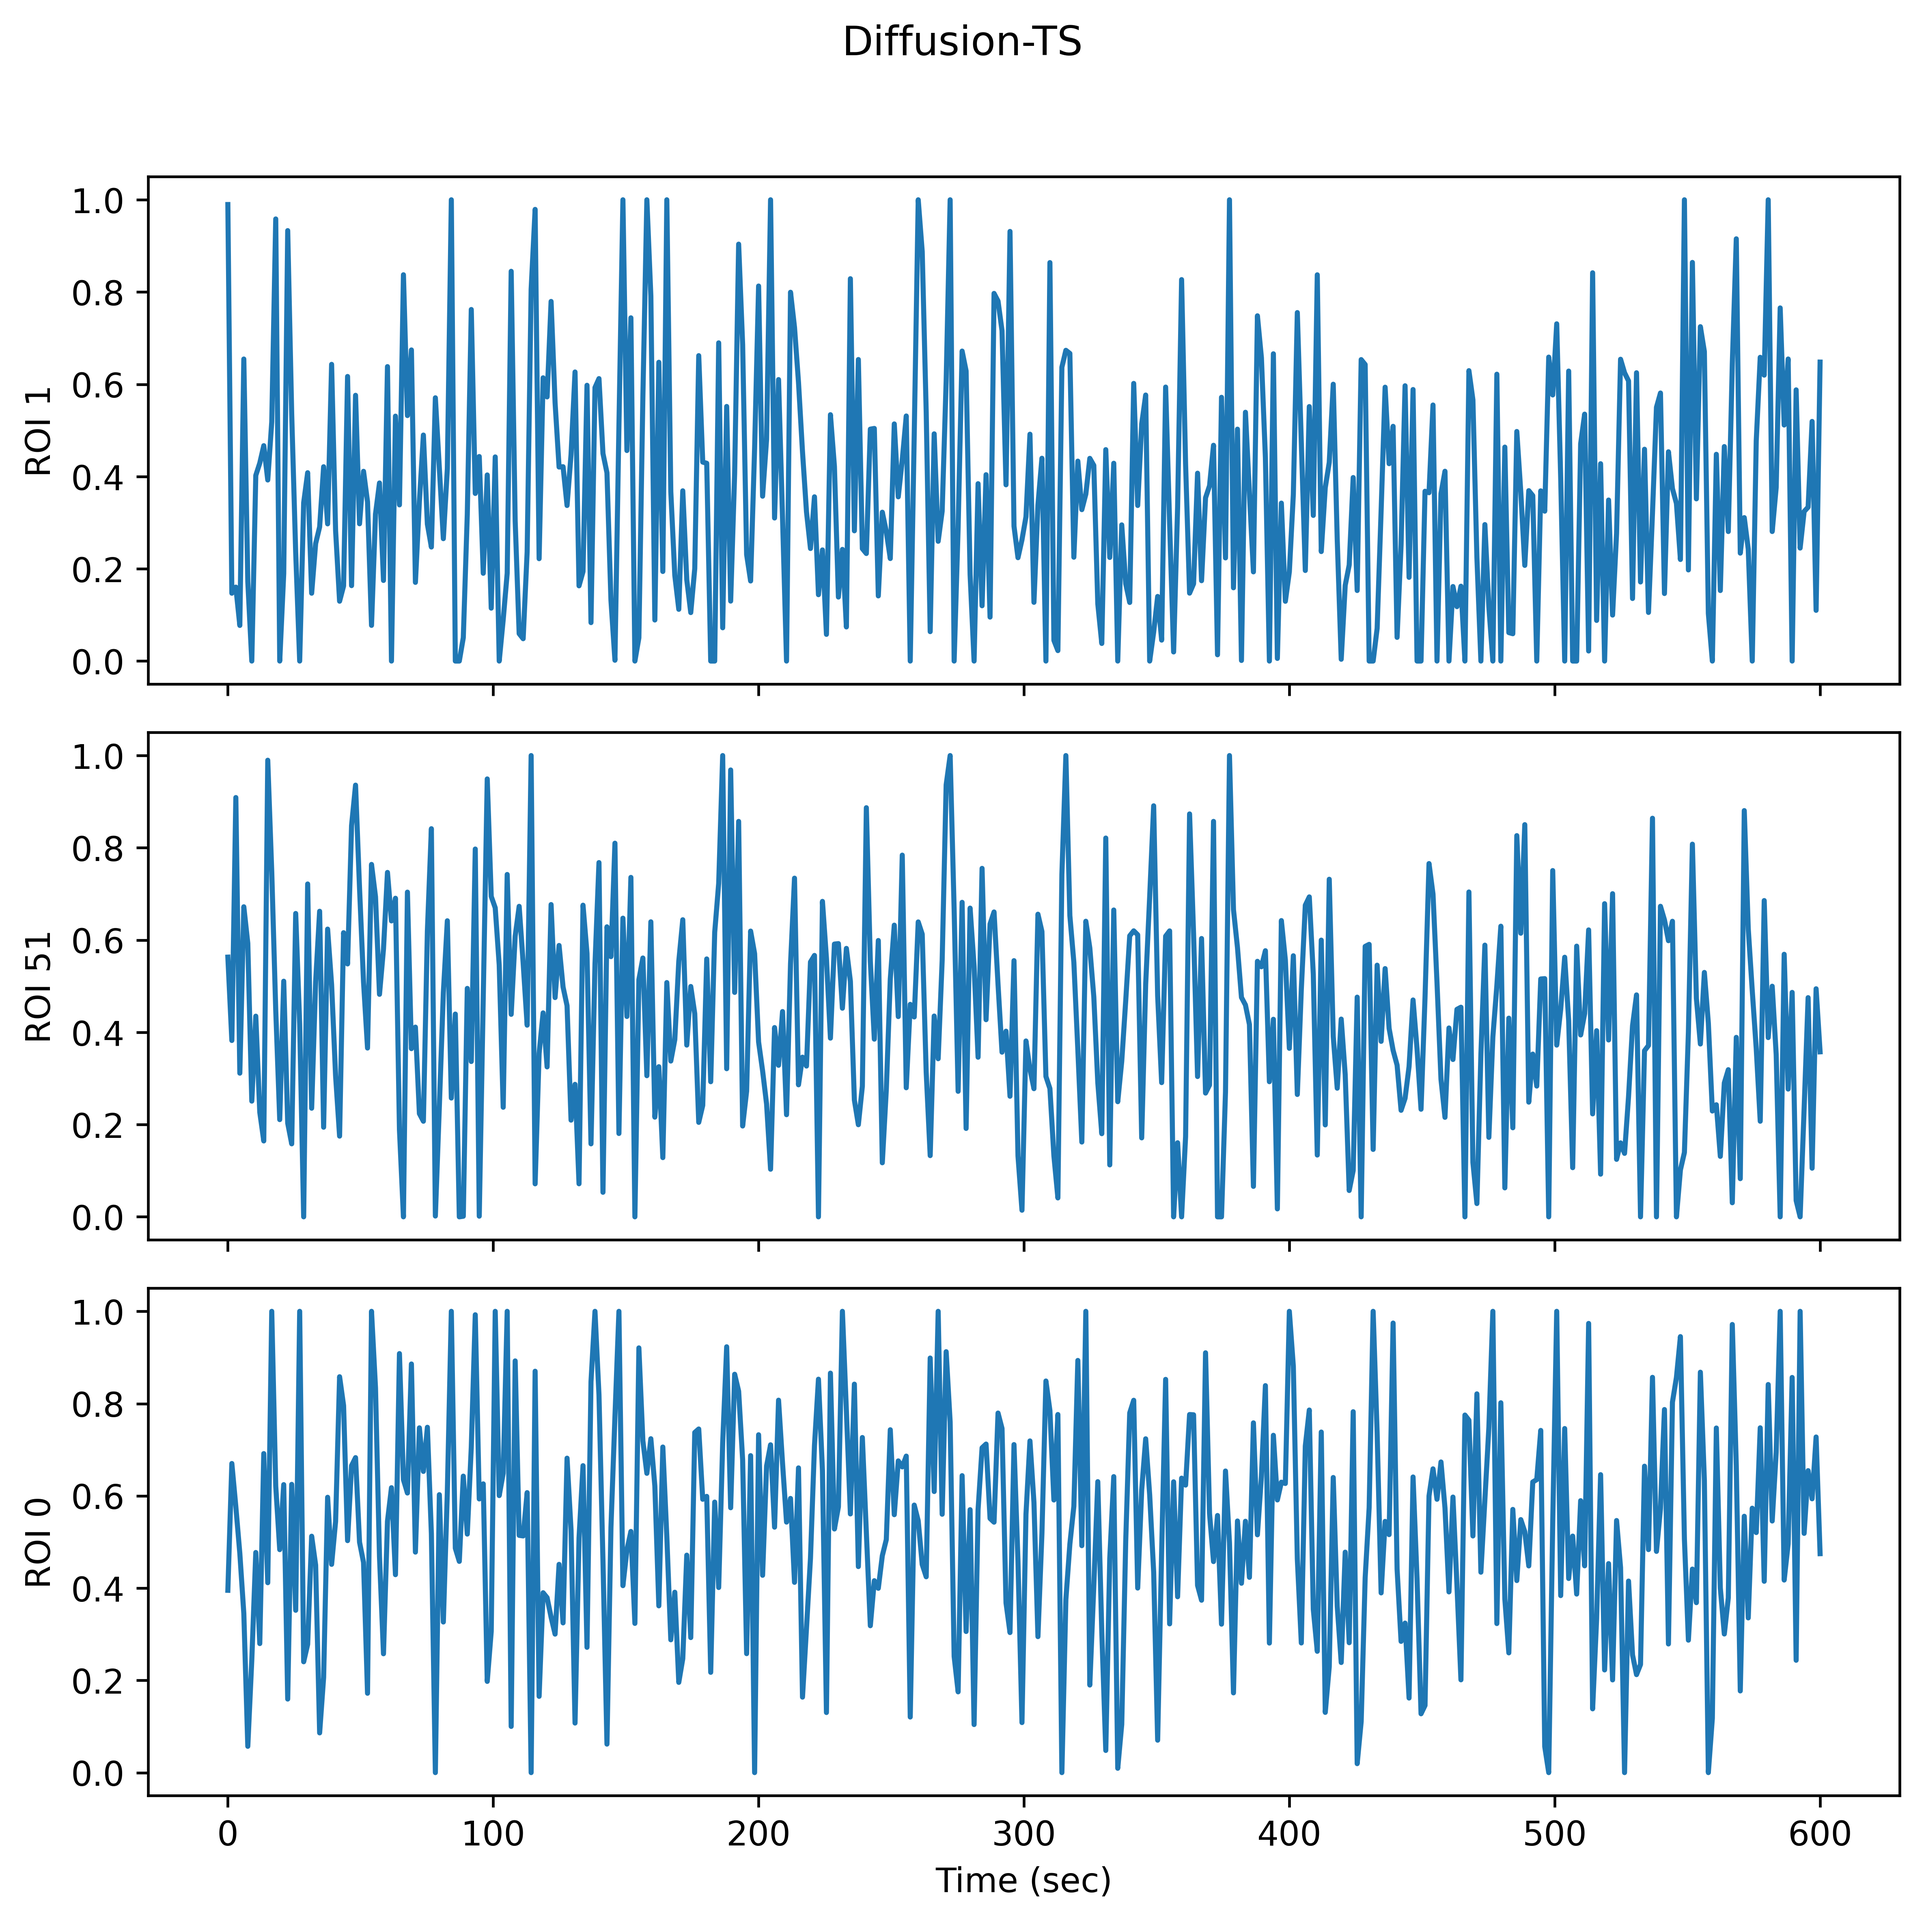
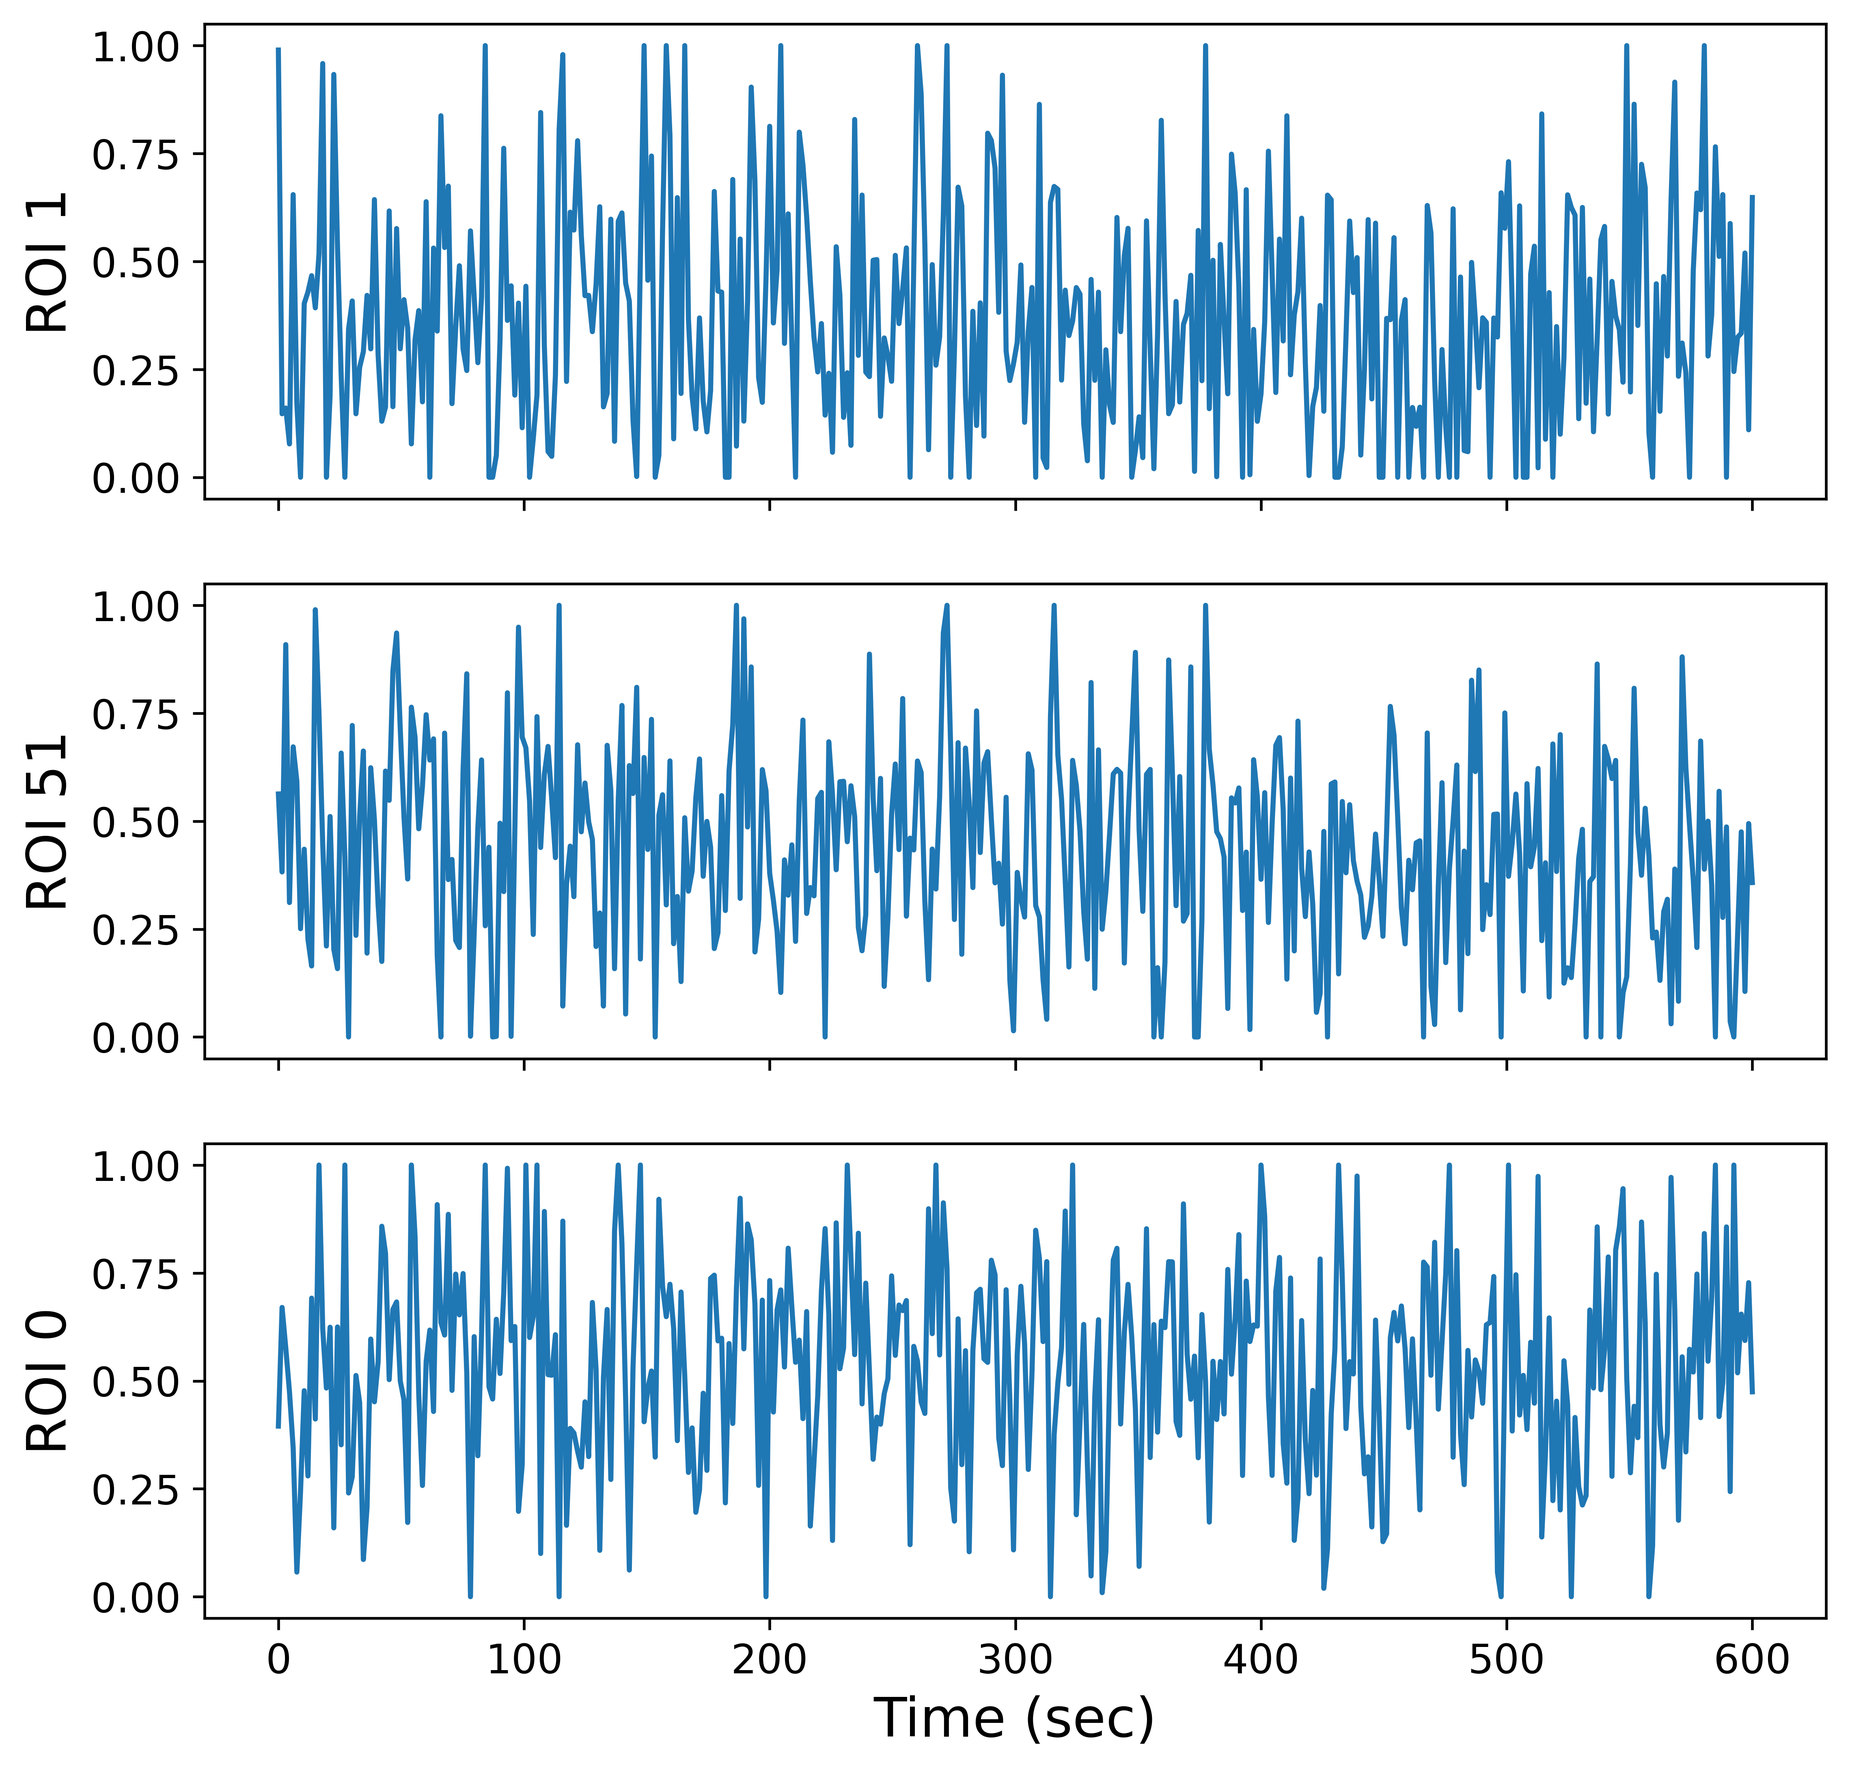
Update

Changed region(s): [[0.0, 0.0, 0.9969, 0.997], [0.0623, 0.0, 0.0935, 0.0312], [0.0, 0.2181, 0.0312, 0.2493]]

diff --git a/plot_time_series_and_PSDs.py b/plot_time_series_and_PSDs.py
@@ -2,8 +2,17 @@ import torch
 import numpy as np
 import os
 import matplotlib.pyplot as plt
-from scipy.signal import welch
+import matplotlib as mpl
 
+mpl.rcParams.update({
+    'font.size': 20,          # base font size
+    'axes.titlesize': 22,     # subplot titles
+    'axes.labelsize': 16,     # x/y labels
+    'xtick.labelsize': 12,    # x tick labels
+    'ytick.labelsize': 12,    # y tick labels
+    'legend.fontsize': 18,   # legend text
+    'figure.titlesize': 24   # suptitle
+})
 
 def plot_three_subplots(x, data, title, filename):
     fig, axes = plt.subplots(3, 1, figsize=(8, 8), sharex=True)
@@ -14,36 +23,11 @@ def plot_three_subplots(x, data, title, filename):
         ax.set_ylabel(f'ROI {idx+1}')
 
     axes[-1].set_xlabel('Time (sec)')
-    fig.suptitle(title)
 
     plt.tight_layout(rect=[0, 0, 1, 0.96])
     plt.savefig(os.path.join('plots', filename), dpi=600, bbox_inches='tight')
     plt.show()
 
-
-def plot_three_subplots_psd(data, title, filename):
-    """
-    Plots Welch PSDs for three ROIs (0, 50, last) in a 3x1 subplot figure.
-    Uses only the first 400 samples, as in the original time-series plot.
-    """
-    fs = 1 / 1.5  # sampling frequency (Hz)
-
-    fig, axes = plt.subplots(3, 1, figsize=(8, 8), sharex=True)
-
-    indices = [0, 50, -1]
-    for ax, idx in zip(axes, indices):
-        # compute Welch PSD for this ROI
-        f, Pxx = welch(data[:400, idx], fs=fs)
-
-        ax.semilogy(f, Pxx)      # semilogy is common for PSDs, but you can use ax.plot(f, Pxx)
-        ax.set_ylabel(f'ROI {idx+1}')
-
-    axes[-1].set_xlabel('Frequency (Hz)')
-    fig.suptitle(title + ' (Welch PSD)')
-
-    plt.tight_layout(rect=[0, 0, 1, 0.96])
-    plt.savefig(os.path.join('plots', filename), dpi=600, bbox_inches='tight')
-    plt.show()
 
 
 def main(config):           
@@ -72,28 +56,20 @@ def main(config):
     x = np.linspace(0, 600, 400)
 
     plot_three_subplots(x, data, 'Original', 'time_series_original.png')
-    plot_three_subplots_psd(data, 'Original', 'psd_original.png')
 
     plot_three_subplots(x, data_noise05, 'Noise-6dB', 'time_series_Noise-6dB.png')
-    plot_three_subplots_psd(data_noise05, 'Noise-6dB', 'psd_Noise-6dB.png')
     
     plot_three_subplots(x, data_noise075, 'Noise-3dB', 'time_series_Noise-3dB.png')
-    plot_three_subplots_psd(data_noise075, 'Noise-3dB', 'psd_Noise-3dB.png')
     
     plot_three_subplots(x, data_timevae, 'TimeVAE', 'time_series_TimeVAE.png')
-    plot_three_subplots_psd(data_timevae, 'TimeVAE', 'psd_timevae.png')
     
     plot_three_subplots(x, data_timegan, 'TimeGAN', 'time_series_TimeGAN.png')
-    plot_three_subplots_psd(data_timegan, 'TimeGAN', 'psd_timegan.png')
     
     plot_three_subplots(x, data_crvae, 'CRVAE', 'time_series_CRVAE.png')
-    plot_three_subplots_psd(data_crvae, 'CRVAE', 'psd_CRVAE.png')
     
     plot_three_subplots(x, data_diffusion_ts, 'Diffusion-TS', 'time_series_Diffusion-TS.png')
-    plot_three_subplots_psd(data_diffusion_ts, 'Diffusion-TS', 'psd_Diffusion-TS.png')
     
     plot_three_subplots(x, data_rdcm, 'rDCM-GEN', 'time_series_rDCM-GEN.png')
-    plot_three_subplots_psd(data_rdcm, 'rDCM-GEN', 'psd_rDCM-GEN.png')
 
 
 if __name__ == "__main__":
